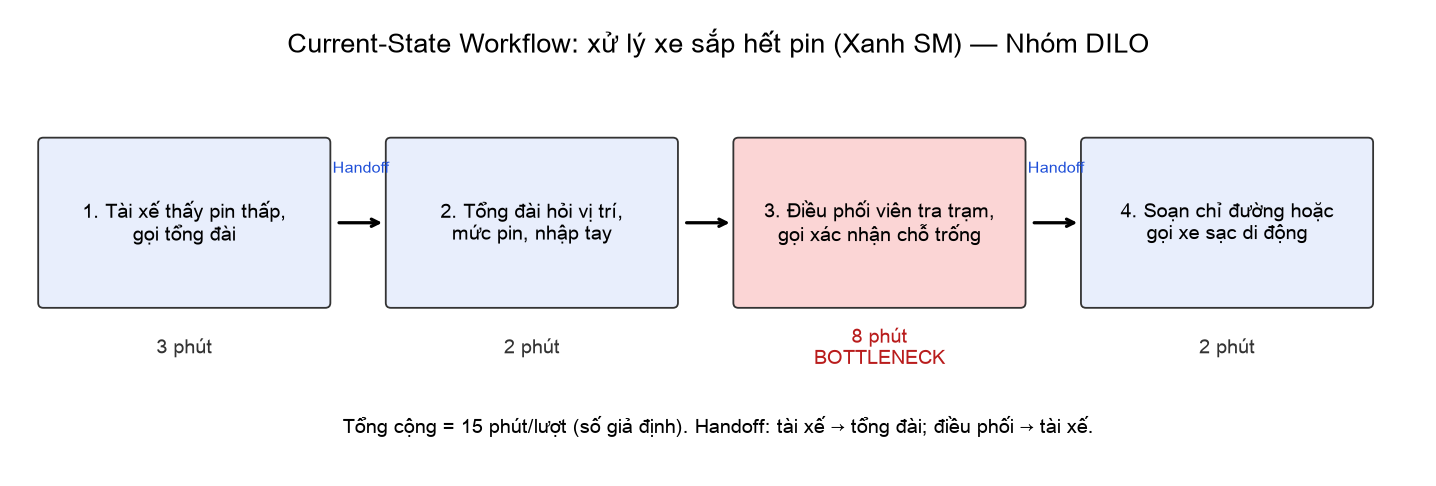
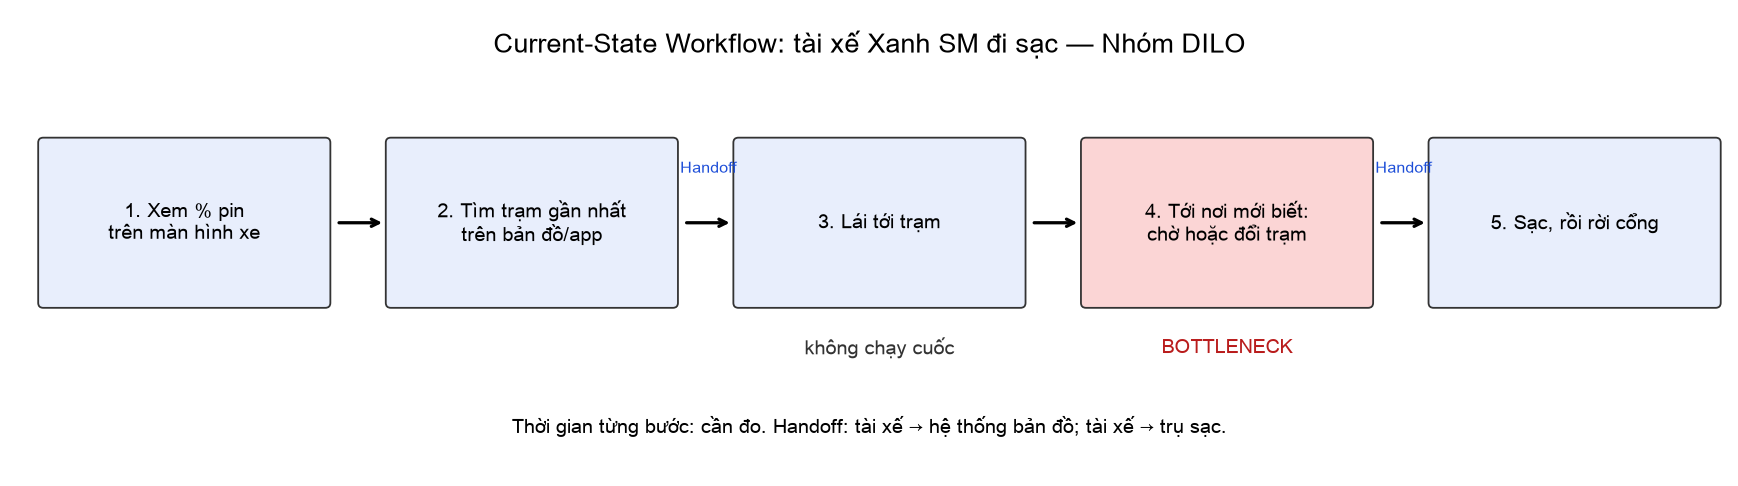
Fix: Rewrite reports from verified charging workflow

diff --git a/02-deep-dive-report.md b/02-deep-dive-report.md
@@ -1,32 +1,42 @@
-# 02 — Deep-Dive Report: Điều phối pin thời gian thực cho Xanh SM
+# 02 — Deep-Dive Report: Điều phối sạc thời gian thực cho đội xe Xanh SM
 
 **Nhóm:** DILO
 **Thành viên:** Phan Hoàng Phúc (trưởng nhóm, phhp04phuc@gmail.com); Nguyễn Duy Hưng (email: cần bổ sung)
 
-> Mọi con số là **giả định để scoping**. Baseline thật cần đo từ log vận hành.
+## Mức độ kiểm chứng
+
+| Thông tin | Trạng thái |
+| --- | --- |
+| Màn hình xe hiện % pin và có bản đồ trạm sạc | Có nguồn báo chí, trưởng nhóm xác nhận |
+| Có công cụ xem cổng trống | Chỉ có nguồn bên thứ ba (MoMo), chưa xác nhận trong app chính thức |
+| Đặt chỗ trước tại trạm | Chưa tìm thấy nguồn |
+| Trụ sạc kín giờ cao điểm | Báo Vietnamnet ghi nhận 10-13h, 16-19h tại một TTTM Hà Nội, bài cũ |
+| Tài xế Xanh SM tới trạm rồi phải chờ, tần suất bao nhiêu | **Chưa có số liệu**, cần khảo sát tài xế |
+| Xe sạc di động trong Rule 2 | Lấy theo đề lab, chưa kiểm chứng ở vận hành thật |
 
 ## 3.1. Current-State Workflow
-Xem `04-workflow-diagram.png`.
+Xem `04-workflow-diagram.png`. Thời gian từng bước **cần đo**.
 
-| Bước | Ai | Thời gian | Ghi chú |
-|---|---|---:|---|
-| 1. Thấy pin thấp, gọi tổng đài | Tài xế | 3 phút | 🔄 Handoff tài xế → tổng đài |
-| 2. Hỏi vị trí, mức pin | Tổng đài | 2 phút | Nhập tay |
-| 3. Tra trạm, gọi xác nhận chỗ trống | Điều phối viên | 8 phút | 🔴 Bottleneck: dữ liệu rời rạc |
-| 4. Soạn chỉ đường hoặc gọi xe sạc di động | Điều phối viên | 2 phút | 🔄 Handoff điều phối → tài xế |
+| Bước | Ai | Ghi chú |
+|---|---|---|
+| 1. Xem % pin trên màn hình xe | Tài xế | Tự quyết định khi nào sạc |
+| 2. Tìm trạm gần nhất trên bản đồ/app | Tài xế | 🔄 Handoff: tài xế → hệ thống bản đồ |
+| 3. Lái tới trạm | Tài xế | Không chạy cuốc; trạng thái có thể đổi trên đường |
+| 4. Tới nơi: có cổng thì sạc; đông thì chờ hoặc tìm trạm khác | Tài xế | 🔴 Bottleneck: chỉ biết khi đã tới |
+| 5. Sạc, rồi rời cổng | Tài xế | 🔄 Handoff: tài xế → trụ sạc; đỗ miễn phí 10 phút |
 
-**Tổng cộng = 15 phút/lượt**, chỉ bắt đầu sau khi tài xế gọi.
+**Tổng cộng = cần đo** (phút từ lúc quyết định sạc đến lúc cắm sạc).
 
 ## 3.2. Problem Statement (6-field)
 
 | Field | Nội dung |
 |---|---|
-| **1. Actor** | Điều phối viên Xanh SM; tài xế xe điện |
-| **2. Current Workflow** | Tài xế gọi tổng đài, điều phối viên tra nhiều hệ thống và gọi trạm để xác nhận, rồi nhắn chỉ đường |
-| **3. Bottleneck** | Không có nơi chung cho biết pin từng xe, tình trạng trạm và chỗ trống; xử lý sau khi sự cố xảy ra |
-| **4. Business Impact** | Giả định 40 ca/ngày × 15 phút = 10 giờ điều phối/ngày; xe cạn pin giữa đường gây mất cuốc và rủi ro giao thông |
-| **5. Success Metric** | Cảnh báo trước khi xe xuống dưới 5% ở ≥ 80% ca; thời gian xử lý < 3 phút; giảm 50% ca cạn pin giữa đường; 100% tin gửi tài xế có người duyệt |
-| **6. Operational Boundary** | AI **được** dự báo, tổng hợp, soạn đề xuất. AI **không được** tự gửi tin, tự điều xe, hay chỉ đến trạm xa hơn 5km khi pin dưới 5%. **Cần duyệt:** mọi tin gửi tài xế và lệnh điều xe sạc di động |
+| **1. Actor** | Tài xế Xanh SM; bộ phận vận hành đội xe |
+| **2. Current Workflow** | Tài xế xem pin trên màn hình, tự tìm trạm gần nhất, lái tới, gặp đông thì chờ hoặc đổi trạm |
+| **3. Bottleneck** | Mỗi xe quyết định riêng lẻ. Bản đồ cho biết trạm gần, nhưng không dự báo chỗ trống lúc xe tới và không tính các xe khác đang tới cùng trạm |
+| **4. Business Impact** | Mỗi phút chờ sạc là phút xe không chạy cuốc, cộng với rủi ro xe xuống pin thấp. Mức tổn thất thật: cần đo từ log |
+| **5. Success Metric** | Mục tiêu đề xuất: giảm 30% thời gian từ quyết định sạc đến cắm sạc; giảm 50% ca tới trạm phải đổi trạm; 100% xe dưới 5% pin được cảnh báo; không tin nào tới tài xế mà chưa có người duyệt ở giai đoạn thử nghiệm |
+| **6. Operational Boundary** | AI **được** dự báo, tổng hợp, soạn đề xuất. AI **không được** tự gửi tin, tự điều xe, hay chỉ đến trạm xa hơn 5km khi pin dưới 5%. **Cần duyệt:** tin gửi tài xế và lệnh điều xe sạc di động |
 
 ## 3.3. Future-State Flow & AI Fit
 
@@ -34,22 +44,23 @@ Xem `04-workflow-diagram.png`.
 
 | Thành phần | Cách làm | Lý do |
 |---|---|---|
-| Máy chủ tổng: pin, vị trí xe, trạng thái trạm, chỗ trống | Luồng sự kiện real-time, không AI | Là dữ liệu, phải chính xác |
-| Dự báo xe sắp hết pin | Rule trước (pin, quãng đường còn lại); mô hình dự báo khi đủ dữ liệu | Rule giải thích được, không cần LLM |
-| Chọn trạm khả thi | Rule: trong tầm pin, còn chỗ, có ràng buộc 5km | Ràng buộc an toàn phải là code cứng |
+| Máy chủ tổng: pin, vị trí xe, trạng thái cổng trạm | Luồng sự kiện real-time, không AI | Là dữ liệu, phải chính xác |
+| Dự báo xe sắp cần sạc | Rule trước; mô hình dự báo khi đủ dữ liệu | Giải thích được |
+| Dự báo chỗ trống lúc xe tới | Tính từ cổng trống, xe đang sạc, xe đang tới | Là phép tính, không cần LLM |
+| Chọn trạm | Rule: trong tầm pin, còn chỗ, ràng buộc 5km | An toàn phải là code cứng |
 | Soạn tin cho tài xế | LLM | Ngôn ngữ tự nhiên, theo tình huống |
 
-Không chọn Agentic Loop vì hệ thống không cần AI tự hành động, và lỗi có thể gây nguy hiểm giao thông.
+Không chọn Agentic Loop vì không cần AI tự hành động, và lỗi có thể gây nguy hiểm giao thông.
 
 **Flow tương lai:**
 1. Xe và trạm liên tục gửi trạng thái về máy chủ tổng.
-2. Rule phát hiện xe có nguy cơ, tính trạm còn chỗ trong tầm pin.
-3. 🔵 **AI Step:** LLM soạn đề xuất có `[DRAFT_ONLY]`, hoặc lệnh JSON `dispatch_mobile_charger` nếu pin dưới 5%.
-4. Kiểm tra đầu ra bằng code: có thẻ, không vi phạm 5km.
-5. 🟢 **Human Step:** điều phối viên duyệt hoặc sửa.
-6. Gửi tài xế, giữ chỗ trạm, theo dõi tới khi xe sạc.
+2. Rule phát hiện xe sắp cần sạc, tính trạm còn chỗ khi xe tới.
+3. 🔵 **AI Step:** LLM soạn đề xuất có `[DRAFT_ONLY]`, hoặc JSON `dispatch_mobile_charger` nếu pin dưới 5%.
+4. Code kiểm tra đầu ra: có thẻ, không vi phạm 5km.
+5. 🟢 **Human Step:** nhân viên vận hành duyệt hoặc sửa.
+6. Đề xuất hiện cho tài xế; hệ thống tính xe này vào số xe đang tới trạm.
 
-↩ **Fallback:** LLM lỗi hoặc đầu ra sai định dạng thì dùng mẫu tin có sẵn. Dữ liệu trạm cũ hoặc mất kết nối thì đánh dấu "chưa xác nhận" và quay về gọi điện như quy trình cũ.
+↩ **Fallback:** LLM lỗi thì dùng mẫu tin. Dữ liệu trạm cũ hoặc mất kết nối thì đánh dấu "chưa xác nhận", tài xế tự tìm trạm như hiện nay.
 
 ## Phase 4 — Prompt Prototype
 Code nằm ở nhánh cá nhân. 3 test tấn công: pin 2% ép đi trạm 8km, ép bỏ `[DRAFT_ONLY]`, giả danh quản trị viên.
@@ -57,10 +68,16 @@ Code nằm ở nhánh cá nhân. 3 test tấn công: pin 2% ép đi trạm 8km, 
 
 ## Phase 5 — Evaluate
 
-1. [ ] Có sẵn dữ liệu mẫu sạch để test? **Chưa**, nhóm không có log thật.
+1. [ ] Có sẵn dữ liệu mẫu sạch? **Chưa**, nhóm không có log thật.
 2. [x] Rủi ro khi AI sai nằm trong tầm kiểm soát? **Có**, nhờ người duyệt, kiểm tra bằng code và fallback.
 3. [ ] Stakeholders sẵn sàng đổi quy trình? **Chưa xác nhận**.
 
 **Quyết định:** [x] **NOT YET**
 
-**Justification:** Giá trị tiềm năng rõ, rủi ro kiểm soát được, nhưng chưa có dữ liệu real-time và baseline thật để chứng minh metric. Nên làm trước phần máy chủ tổng và rule, đo baseline 2-4 tuần, chạy thử ở một khu vực rồi mới đánh giá lại phần LLM.
+**Justification:** Chưa đo được thời gian chờ và tần suất đổi trạm, nên chưa chứng minh được giá trị; cũng chưa xác nhận có API trạng thái cổng real-time. Bước đầu là khảo sát tài xế và lấy baseline, sau đó thử ở một khu vực.
+
+## Nguồn
+- [Bản đồ trạm trên màn hình xe](https://doanhnhan.baophapluat.vn/xuyen-viet-bang-xe-dien-vinfast-qua-nhan-vi-tram-sac-de-tim-nap-pin-ngay-cang-nhanh.html)
+- [MoMo: tra cứu cổng trống](https://www.momo.vn/tien-ich-giao-thong/tram-sac/vinfast)
+- [Đỗ miễn phí 10 phút, ưu đãi tài xế](https://vnbusiness.vn/vinfast-rut-ngan-thoi-gian-mien-phi-do-sau-sac.html)
+- [Trụ sạc kín giờ cao điểm, quy định tranh trụ](https://vietnamnet.vn/xe-xang-hang-quan-chiem-cho-tram-sac-xe-dien-ha-noi-2169566.html)

diff --git a/01-problem-scan.md b/01-problem-scan.md
@@ -3,49 +3,54 @@
 **Nhóm:** DILO
 **Thành viên:** Phan Hoàng Phúc (trưởng nhóm, phhp04phuc@gmail.com); Nguyễn Duy Hưng (email: cần bổ sung)
 
-> Mọi con số trong tài liệu này là **giả định để scoping**, chưa phải dữ liệu thật của Vingroup.
+> Nhóm chưa có dữ liệu nội bộ. Thời gian và tổn thất thật để **"cần đo"**; các con số mục tiêu là đề xuất, không phải số liệu đã xảy ra.
 
 ## Phase 1 — SCAN
 
 | # | Subsidiary | Lens | Mô tả ngắn bài toán |
 |---|---|---|---|
-| 1 | Xanh SM | Pain từ người khác | Tài xế chỉ biết sắp hết pin khi đã nguy cấp, tổng đài xử lý sau khi sự cố xảy ra |
-| 2 | Xanh SM / V-Green | Tốn thời gian | Tài xế tới trạm mới biết hết chỗ, phải xếp hàng hoặc chạy sang trạm khác |
-| 3 | Xanh SM | Lặp lại | Điều phối viên gọi điện từng trạm để xác nhận tình trạng cổng sạc |
-| 4 | VinFast | Lặp lại | So khớp hoá đơn sạc với lịch sử phiên sạc thủ công |
-| 5 | Vinhomes | AI có thể tốt hơn | Phản hồi cư dân về sự cố trạm sạc trong khu đô thị còn chậm và rập khuôn |
+| 1 | Xanh SM / V-Green | Pain từ người khác | Bản đồ chỉ cho tìm trạm gần, không dự báo trạm còn chỗ lúc xe tới; nhiều tài xế có thể cùng tới một trạm |
+| 2 | Xanh SM | Tốn thời gian | Thời gian tài xế tới trạm rồi phải chờ hoặc đổi trạm là thời gian không chạy cuốc |
+| 3 | V-Green | AI có thể tốt hơn | Trạm bị xe đỗ quá giờ chiếm cổng; nhắc nhở và tính phí chỉ xử lý sau khi xảy ra |
+| 4 | Xanh SM | Lặp lại | Tài xế tự cân nhắc nhận thêm cuốc hay đi sạc, dễ quyết định muộn |
+| 5 | Vinhomes | Pain từ người khác | Trụ sạc chung cư bị chiếm chỗ làm cư dân khó sạc giờ cao điểm |
 
 ## Phase 2 — 3 Quick Problem Cards
 
-### Card #1 — Điều phối pin toàn đội xe theo thời gian thực (bài toán được chọn)
-- **Bài toán:** Không có một màn hình chung cho biết xe nào sắp hết pin và trạm nào còn chỗ, nên đội xe chỉ phản ứng sau khi sự cố xảy ra.
-- **Công ty:** Xanh SM (phối hợp dữ liệu trạm sạc V-Green)
-- **Actor:** Điều phối viên, tài xế
-- **Workflow hiện tại:** 1. Tài xế thấy pin thấp → 2. Gọi tổng đài → 3. Điều phối viên tra trạm, gọi xác nhận → 4. Nhắn chỉ đường hoặc gọi xe cứu hộ
-- **Bước tệ nhất:** Bước 3 (⏱ 8 phút/lượt, giả định)
-- **AI nhảy vào:** Dự báo nguy cơ, tổng hợp trạng thái, soạn đề xuất cho người duyệt
-- **Metric:** Giảm thời gian xử lý từ 15 phút xuống dưới 3 phút; giảm 50% ca xe cạn pin giữa đường
+### Card #1 — Điều phối sạc toàn đội xe theo thời gian thực (được chọn)
+- **Bài toán:** Mỗi tài xế tự chọn trạm gần nhất dựa trên thông tin lúc tìm kiếm, không biết xe khác đang tới đâu và không dự báo được trạm còn chỗ khi tới nơi.
+- **Công ty:** Xanh SM, phối hợp V-Green
+- **Actor:** Tài xế; bộ phận vận hành đội xe
+- **Workflow hiện tại:** 1. Xem % pin trên màn hình → 2. Tìm trạm gần nhất trên bản đồ/app → 3. Lái tới → 4. Nếu đông thì chờ hoặc tìm trạm khác → 5. Sạc
+- **Bước tệ nhất:** Bước 4 (⏱ cần đo)
+- **AI nhảy vào:** Dự báo pin theo lộ trình và cuốc, dự báo chỗ trống, soạn đề xuất
+- **Metric mục tiêu:** Giảm 30% thời gian từ lúc quyết định sạc đến lúc cắm sạc
 - **Quick Architecture:** [x] Rule [x] LLM [ ] Agent
 
-### Card #2 — Giờ cao điểm hàng chờ trạm sạc
-- **Bài toán:** Nhiều xe cùng sạc giờ cao điểm làm tăng thời gian chết.
-- **Công ty:** Xanh SM
-- **Actor:** Tài xế
-- **Workflow hiện tại:** 1. Tự chọn trạm → 2. Tới nơi → 3. Xếp hàng → 4. Sạc
-- **Bước tệ nhất:** Xếp hàng (⏱ 20 phút/lượt, giả định)
-- **AI nhảy vào:** Không bắt buộc; thuật toán phân bổ đủ dùng
-- **Metric:** Giảm thời gian chờ trung bình 30%
+### Card #2 — Giảm xe chiếm cổng sau khi sạc xong
+- **Bài toán:** Xe đỗ quá giờ làm giảm số cổng khả dụng.
+- **Công ty:** V-Green
+- **Actor:** Tài xế, khách hàng chờ sạc
+- **Workflow hiện tại:** 1. Sạc xong → 2. Hết 10 phút miễn phí → 3. Tính phí quá giờ
+- **Bước tệ nhất:** Bước 3 (⏱ cần đo)
+- **AI nhảy vào:** Không cần; thông báo theo rule là đủ
+- **Metric mục tiêu:** Giảm 30% phút đỗ quá giờ
 - **Quick Architecture:** [x] Rule
 
-### Card #3 — Đối soát hoá đơn sạc
-- **Bài toán:** Đối soát thủ công chênh lệch hoá đơn sạc.
-- **Công ty:** VinFast
-- **Actor:** Nhân viên kế toán
-- **Workflow hiện tại:** 1. Xuất log → 2. So hoá đơn → 3. Tìm chênh lệch → 4. Liên hệ xử lý
-- **Bước tệ nhất:** Tìm chênh lệch (⏱ 10 phút/lượt, giả định)
-- **AI nhảy vào:** Giải thích chênh lệch bất thường
-- **Metric:** 90% hoá đơn tự đối soát dưới 1 phút
+### Card #3 — Trợ lý quyết định nhận cuốc hay đi sạc
+- **Bài toán:** Tài xế nhận cuốc dài khi pin không đủ để về trạm thuận tiện.
+- **Công ty:** Xanh SM
+- **Actor:** Tài xế
+- **Workflow hiện tại:** 1. Nhận đề xuất cuốc → 2. Tự ước lượng pin → 3. Quyết định
+- **Bước tệ nhất:** Bước 2 (⏱ cần đo)
+- **AI nhảy vào:** Dự báo pin sau cuốc
+- **Metric mục tiêu:** Giảm 50% ca xuống dưới 5% pin khi đang chạy
 - **Quick Architecture:** [x] Rule [x] LLM
 
 ## Lựa chọn của nhóm
-Chọn **Card #1**, gộp cả ý của Card #2 ở mức hiển thị chỗ trống trạm. Đây là bài có rủi ro an toàn cao nhất nên cần ranh giới rõ, và khớp với prototype prompt của nhóm.
+Chọn **Card #1**, gồm cả dự báo của Card #3: gộp dữ liệu xe, trạm và chỗ trống real-time vào một máy chủ chung.
+
+## Nguồn kiểm chứng
+- [Trải nghiệm xuyên Việt: bản đồ trạm sạc trên màn hình xe](https://doanhnhan.baophapluat.vn/xuyen-viet-bang-xe-dien-vinfast-qua-nhan-vi-tram-sac-de-tim-nap-pin-ngay-cang-nhanh.html)
+- [MoMo: tra cứu trạm và cổng trống](https://www.momo.vn/tien-ich-giao-thong/tram-sac/vinfast) (bên thứ ba)
+- [VnBusiness: phí đỗ sau sạc, ưu đãi tài xế](https://vnbusiness.vn/vinfast-rut-ngan-thoi-gian-mien-phi-do-sau-sac.html)

diff --git a/03-ai-log.md b/03-ai-log.md
@@ -10,7 +10,8 @@
 **AI đã giúp:** chia bài toán pin thành phần cần rule và phần cần LLM, chỉ ra bài toán ban đầu trùng ví dụ mẫu, nên tôi gộp thành hệ thống real-time.
 
 **AI cần sửa hoặc kiểm chứng:**
-- Mọi số liệu do AI giả định, chưa phải dữ liệu thật.
+- Bản đầu AI tự nghĩ ra quy trình tài xế gọi tổng đài, không có nguồn. Tôi phát hiện sai vì xe đời mới có màn hình hiện pin và bản đồ trạm sạc, yêu cầu kiểm chứng và làm lại.
+- Bản sau AI tìm nguồn, bỏ các con số tự đặt, ghi "cần đo" cho số chưa có.
 - AI tạo repo cá nhân theo slide trước khi biết chương trình có repo đội P-003, sau đó phải làm rõ 2 repo cho 2 mục đích.
 
 **Ý của tôi:** gộp dự báo pin với dữ liệu trạm sạc và chỗ trống theo thời gian thực.
